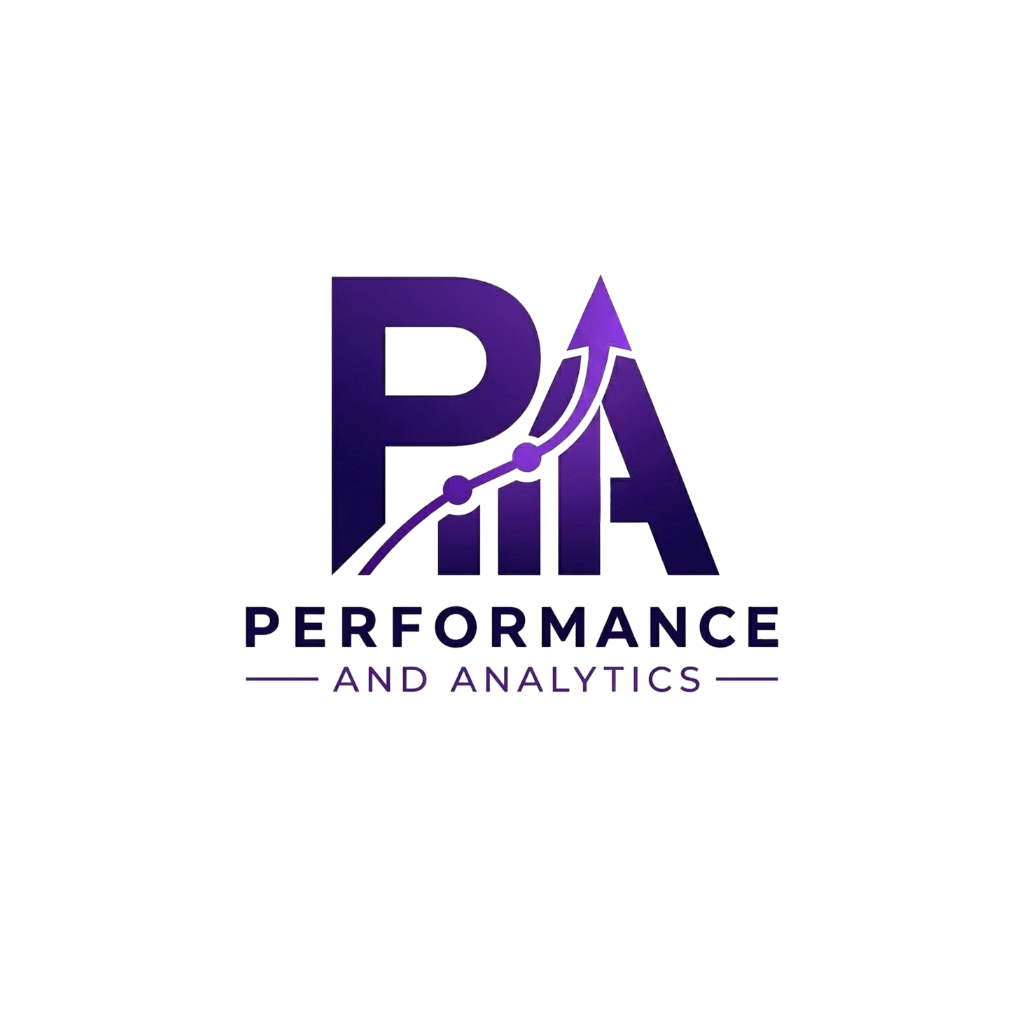
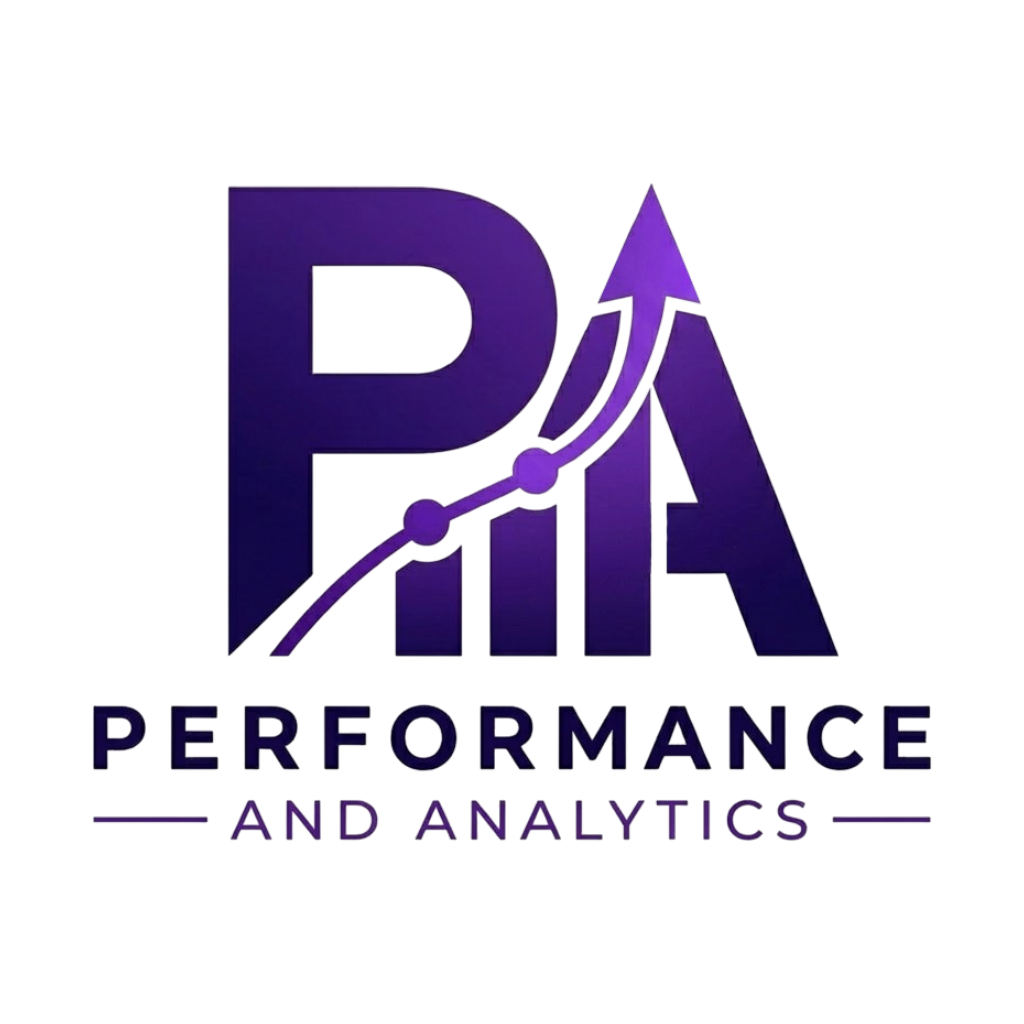
P&ABCDEF

Changed region(s): [[0.0938, 0.1562, 0.9062, 0.75], [0.4062, 0.7812, 0.9062, 0.8438], [0.0938, 0.7812, 0.375, 0.8438]]

diff --git a/services/Chat_IA.py b/services/Chat_IA.py
@@ -84,7 +84,7 @@ def render_chat_panel():
     st.markdown("""
         <div class="chat-header">
             <div class="floating-bot">🤖</div>
-            <div class="chat-title">P&A AI</div>
+            <div class="chat-title">Performance & Analytics AI</div>
             <div style="color: #666; font-size: 0.9rem;">Assistant Tactique en direct</div>
         </div>
     """, unsafe_allow_html=True)